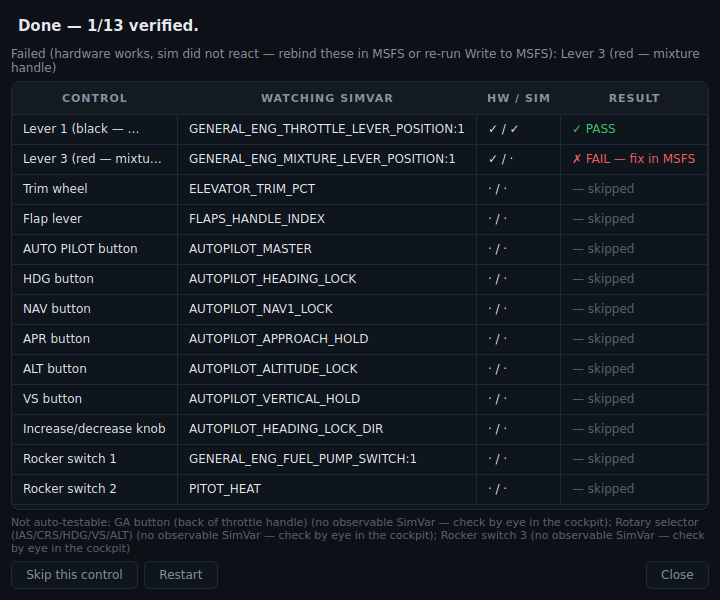
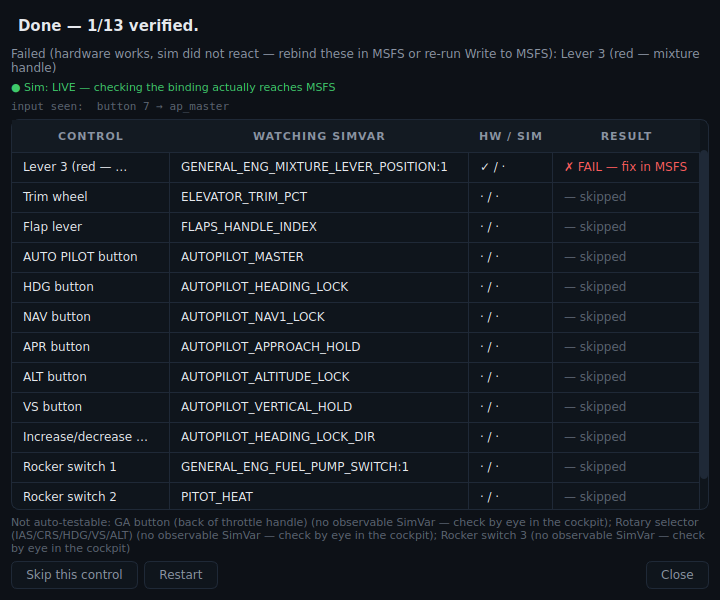
Fix OpenAI max_tokens error and make Verify Live show live feedback
Two reported bugs:

1) AI Setup failed on newer OpenAI models with "Error code: 400 … 'max_tokens'
   is not supported … use 'max_completion_tokens' instead." The OpenAI-compatible
   path now sends max_completion_tokens for the openai provider and max_tokens
   for local, and retries once with the other name if the model reports it
   unsupported — so both current OpenAI models and local servers work. Also map
   BadRequestError to a clean message. Test covers the fallback.

2) Verify Live "showed testing and nothing else": it only reacted to the exact
   mapped control, with no sign that any input was arriving, so a mismatched
   axis index or an undetected device looked completely dead. The dialog now has
   an always-on raw-input readout ("input seen: axis 2 = -0.45 → rudder", or
   "(unmapped — use Learn)") updated on every input from the device, plus a
   clear sim-connection chip (connecting / LIVE / offline hardware-only). You can
   now see input is being received and whether it maps where expected.

Claude-Session: https://claude.ai/code/session_01LxXQLLJEJeJoDv1k2Rmb4D

Changed region(s): [[0.0, 0.12, 1.0, 0.84]]

diff --git a/src/controls_app/verify_dialog.py b/src/controls_app/verify_dialog.py
@@ -56,6 +56,7 @@ class VerifyDialog(QDialog):
         self.idx = -1
         self.baseline: float | None = None
         self.sim_live = False
+        self.sim_settled_offline = False  # True once a connect attempt has concluded
 
         self.setWindowTitle(f"Verify bindings live — {device.name}")
         self.resize(720, 600)
@@ -72,6 +73,19 @@ class VerifyDialog(QDialog):
         self.sub.setWordWrap(True)
         self.sub.setStyleSheet(f"color: {theme.TEXT_DIM}; font-size: 12px;")
         lay.addWidget(self.sub)
+
+        # Live feedback so the screen never looks dead: sim link state + the last
+        # raw input we saw from this device (proves input is arriving even if it
+        # isn't the control being tested — the #1 "nothing happens" confusion).
+        self.simchip = QLabel()
+        self.simchip.setStyleSheet("font-size: 11px;")
+        lay.addWidget(self.simchip)
+        self._update_simchip()
+        self.raw = QLabel("Waiting for input — move a control on this device…")
+        self.raw.setStyleSheet(
+            f"color: {theme.TEXT_FAINT}; font-size: 11px; font-family: Consolas, monospace;"
+        )
+        lay.addWidget(self.raw)
 
         self.table = QTableWidget(len(self.tests), 4)
         self.table.setHorizontalHeaderLabels(["CONTROL", "WATCHING SIMVAR", "HW / SIM", "RESULT"])
@@ -120,11 +134,12 @@ class VerifyDialog(QDialog):
         self.advance_timer = QTimer(self)
         self.advance_timer.setSingleShot(True)
         self.advance_timer.timeout.connect(self._advance)
-        self.sim_settled_offline = False  # True once a connect attempt has failed
 
-        # hardware channel
+        # hardware channel (test matching + an always-on raw readout)
         self.monitor.button_changed.connect(self._on_button)
         self.monitor.axis_changed.connect(self._on_axis)
+        self.monitor.button_changed.connect(self._on_raw_button)
+        self.monitor.axis_changed.connect(self._on_raw_axis)
 
         # sim channel (own link so the watch set is ours)
         self.sim = SimLink(self)
@@ -230,12 +245,39 @@ class VerifyDialog(QDialog):
             self._paint_row(self.idx)
             self._maybe_pass()
 
+    # -------- always-on raw readout (independent of the current test) --------
+    def _on_raw_axis(self, device_id: str, index: int, value: float) -> None:
+        if device_id != self.device_id:
+            return
+        mapped = self.input_map.control_for_axis(index)
+        who = f" → {mapped}" if mapped else " (unmapped — use Learn)"
+        self.raw.setText(f"input seen:  axis {index} = {value:+.2f}{who}")
+
+    def _on_raw_button(self, device_id: str, index: int, pressed: bool) -> None:
+        if device_id != self.device_id or not pressed:
+            return
+        mapped = self.input_map.control_for_button(index)
+        who = f" → {mapped}" if mapped else " (unmapped — use Learn)"
+        self.raw.setText(f"input seen:  button {index}{who}")
+
+    def _update_simchip(self) -> None:
+        if self.sim_live:
+            self.simchip.setText("● Sim: LIVE — checking the binding actually reaches MSFS")
+            self.simchip.setStyleSheet(f"color: {theme.GREEN}; font-size: 11px;")
+        elif self.sim_settled_offline:
+            self.simchip.setText("● Sim: offline — hardware-only check (start MSFS + load a flight for the full test)")
+            self.simchip.setStyleSheet(f"color: {theme.AMBER}; font-size: 11px;")
+        else:
+            self.simchip.setText("● Sim: connecting…")
+            self.simchip.setStyleSheet(f"color: {theme.TEXT_DIM}; font-size: 11px;")
+
     def _on_sim_state(self, state: str) -> None:
         self.sim_live = state == STATE_LIVE
         if state == STATE_OFFLINE:
             self.sim_settled_offline = True   # a connect attempt has concluded
         elif state == STATE_LIVE:
             self.sim_settled_offline = False  # link recovered
+        self._update_simchip()
         t = self.current()
         if t is not None:
             self.sub.setText(
@@ -278,11 +320,16 @@ class VerifyDialog(QDialog):
 
     # ------------------------------------------------------------- teardown
     def done(self, result: int) -> None:  # noqa: N802
-        try:
-            self.monitor.button_changed.disconnect(self._on_button)
-            self.monitor.axis_changed.disconnect(self._on_axis)
-        except TypeError:
-            pass
+        for sig, slot in (
+            (self.monitor.button_changed, self._on_button),
+            (self.monitor.axis_changed, self._on_axis),
+            (self.monitor.button_changed, self._on_raw_button),
+            (self.monitor.axis_changed, self._on_raw_axis),
+        ):
+            try:
+                sig.disconnect(slot)
+            except TypeError:
+                pass
         self.sim.stop()
         self.sim.wait(2000)
         super().done(result)

diff --git a/src/companion_common/llm.py b/src/companion_common/llm.py
@@ -173,20 +173,26 @@ def _call_openai_compatible(system, user, schema, error_cls, no_credentials_msg,
         system_msg = system + "\n\n" + _schema_instruction(schema)
         response_format = {"type": "json_object"}
 
+    base_kwargs = dict(
+        model=model(),
+        messages=[
+            {"role": "system", "content": system_msg},
+            {"role": "user", "content": user},
+        ],
+        response_format=response_format,
+    )
+    # Newer OpenAI models reject `max_tokens` and require `max_completion_tokens`;
+    # older ones and most local servers want `max_tokens`. Prefer the right one
+    # per provider and fall back to the other if the API asks for it.
+    prefer = "max_completion_tokens" if p == "openai" else "max_tokens"
     try:
-        response = client.chat.completions.create(
-            model=model(),
-            max_tokens=max_tokens,
-            messages=[
-                {"role": "system", "content": system_msg},
-                {"role": "user", "content": user},
-            ],
-            response_format=response_format,
-        )
+        response = _create_with_token_fallback(client, openai, base_kwargs, max_tokens, prefer)
     except openai.AuthenticationError as exc:
         raise error_cls("The LLM API key was rejected — check OPENAI_API_KEY.") from exc
     except openai.APIConnectionError as exc:
         raise error_cls(_connection_msg(p, base_url)) from exc
+    except openai.BadRequestError as exc:
+        raise error_cls(f"The model rejected the request: {exc}") from exc
 
     choice = response.choices[0]
     if getattr(choice.message, "refusal", None):
@@ -195,6 +201,23 @@ def _call_openai_compatible(system, user, schema, error_cls, no_credentials_msg,
     if not content:
         raise error_cls("The model returned an empty response.")
     return _extract_json(content, error_cls)
+
+
+def _create_with_token_fallback(client, openai, base_kwargs, max_tokens, prefer):
+    """Call chat.completions with the preferred token-limit parameter, retrying
+    once with the other name if the model reports it as unsupported."""
+    other = "max_completion_tokens" if prefer == "max_tokens" else "max_tokens"
+    kwargs = dict(base_kwargs)
+    kwargs[prefer] = max_tokens
+    try:
+        return client.chat.completions.create(**kwargs)
+    except openai.BadRequestError as exc:
+        msg = str(exc).lower()
+        if other in msg and ("unsupported" in msg or "not supported" in msg or "instead" in msg):
+            kwargs.pop(prefer, None)
+            kwargs[other] = max_tokens
+            return client.chat.completions.create(**kwargs)
+        raise
 
 
 def _schema_instruction(schema: dict) -> str:

diff --git a/tests/test_llm.py b/tests/test_llm.py
@@ -70,16 +70,27 @@ def _install_fake_openai(monkeypatch, captured, *, content='{"ok": true}', refus
     class APIConnectionError(Exception):
         pass
 
+    class BadRequestError(Exception):
+        pass
+
     mod.AuthenticationError = AuthenticationError
     mod.APIConnectionError = APIConnectionError
+    mod.BadRequestError = BadRequestError
 
     class _Completions:
         def create(self, **kwargs):
             captured.update(kwargs)
+            captured["_last_create"] = dict(kwargs)  # just this call's kwargs
             if raise_kind == "auth":
                 raise AuthenticationError("bad key")
             if raise_kind == "conn":
                 raise APIConnectionError("no server")
+            # emulate a newer OpenAI model rejecting max_tokens
+            if raise_kind == "token" and "max_tokens" in kwargs:
+                raise BadRequestError(
+                    "Unsupported parameter: 'max_tokens' is not supported with this model. "
+                    "Use 'max_completion_tokens' instead."
+                )
             msg = types.SimpleNamespace(content=content, refusal=refusal)
             return types.SimpleNamespace(choices=[types.SimpleNamespace(message=msg)])
 
@@ -108,6 +119,19 @@ def test_local_provider_hits_localhost_with_json_object(monkeypatch):
     assert captured["response_format"] == {"type": "json_object"}
     # the schema is pinned into the system prompt for schema-agnostic servers
     assert "JSON Schema" in captured["messages"][0]["content"]
+
+
+def test_token_param_fallback_for_newer_models(monkeypatch):
+    # A model that rejects max_tokens and demands max_completion_tokens must be
+    # handled transparently (this is the "Error code: 400 ... use
+    # max_completion_tokens" the user hit).
+    monkeypatch.setenv("MSFS_COMPANION_LLM", "local")  # prefers max_tokens first
+    captured = {}
+    _install_fake_openai(monkeypatch, captured, content='{"ok": true}', raise_kind="token")
+    out = llm.call_json(system="s", user="u", schema={"type": "object"}, error_cls=Boom)
+    assert out == {"ok": True}
+    last = captured["_last_create"]
+    assert "max_completion_tokens" in last and "max_tokens" not in last
 
 
 def test_openai_provider_uses_strict_json_schema(monkeypatch):